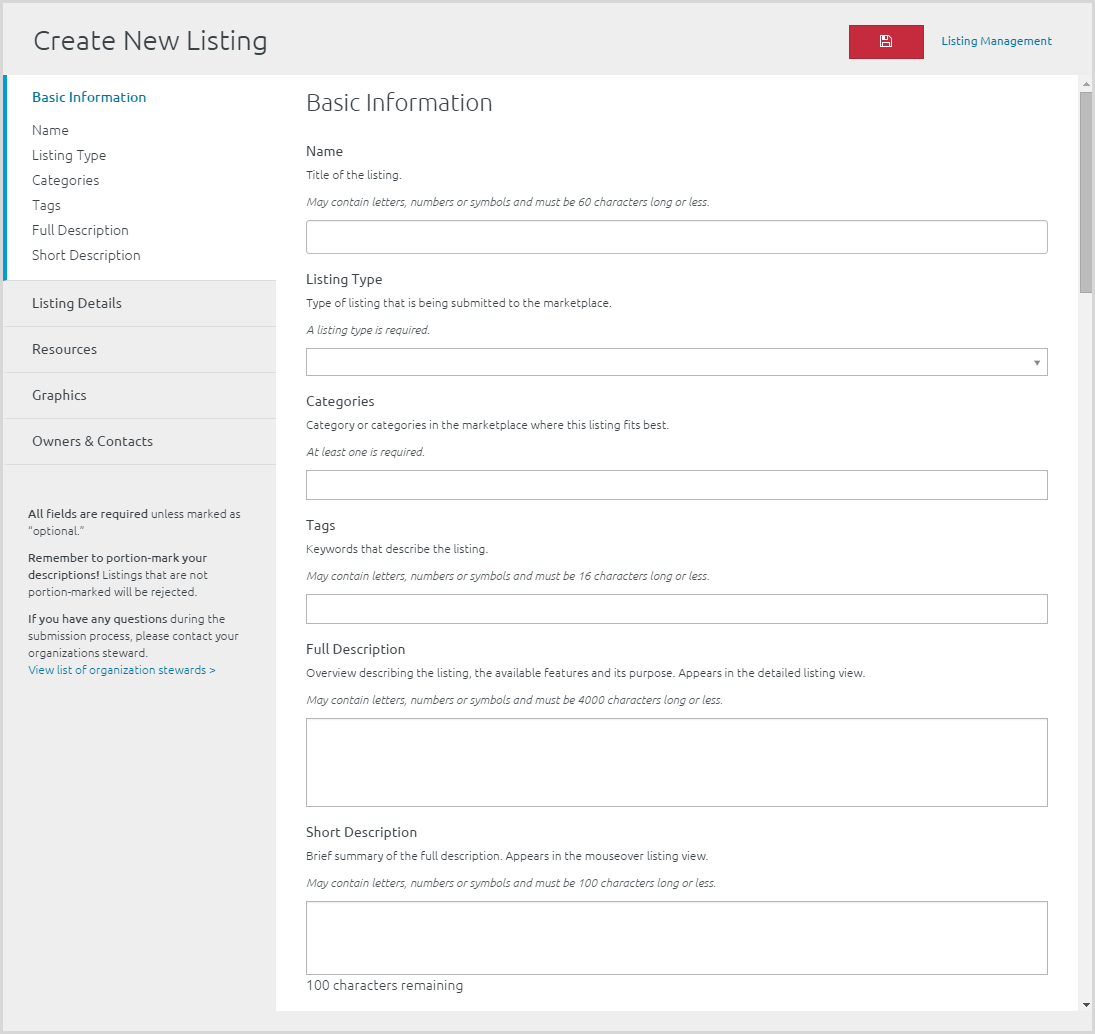
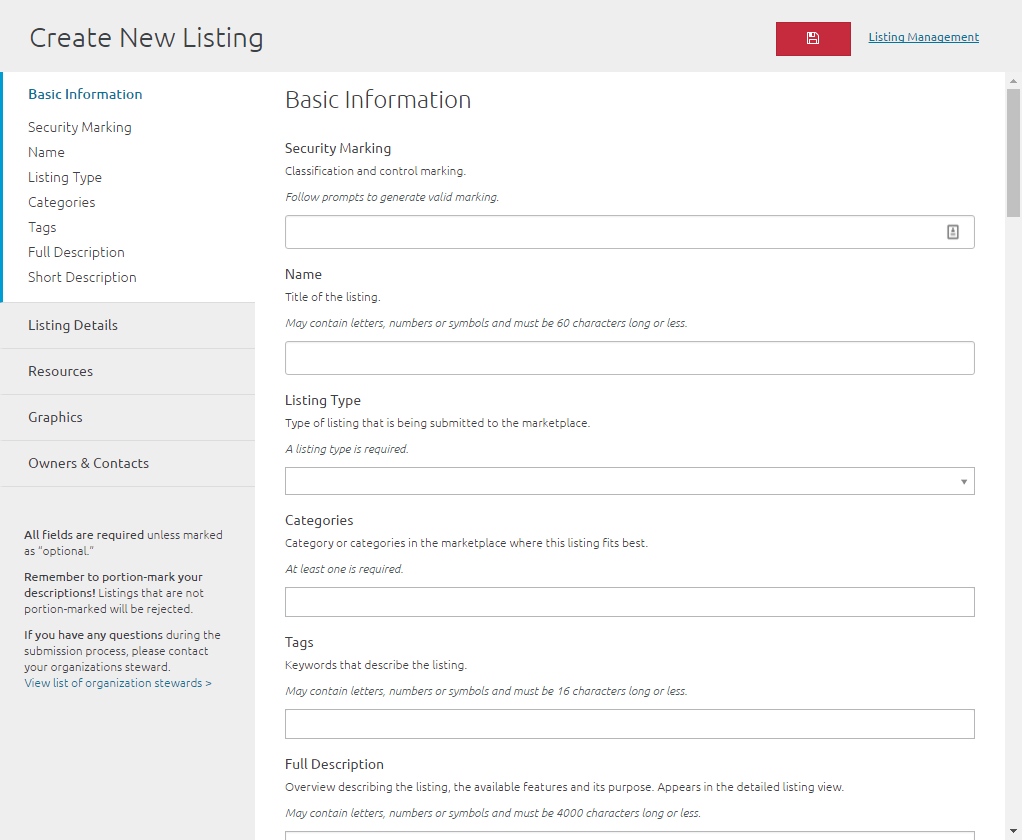
chore(articles): Update article text/screenshot to add portion markings change in Create/Edit form

diff --git a/src/scripts/components/articles/jsxDocs/Center_listings_create.jsx b/src/scripts/components/articles/jsxDocs/Center_listings_create.jsx
@@ -56,6 +56,12 @@ render: function(){return (
 <br /></p>
 
 <p>
+<b>Security Marking</b>
+<br />Classification and control marking.
+<br /><i>Follow prompts to generate valid marking.</i>
+</p>
+
+<p>
 <b>Name</b>
 <br />The name/title of the listing.
 <br /><i>Names are not required to be unique within the system.</i>
